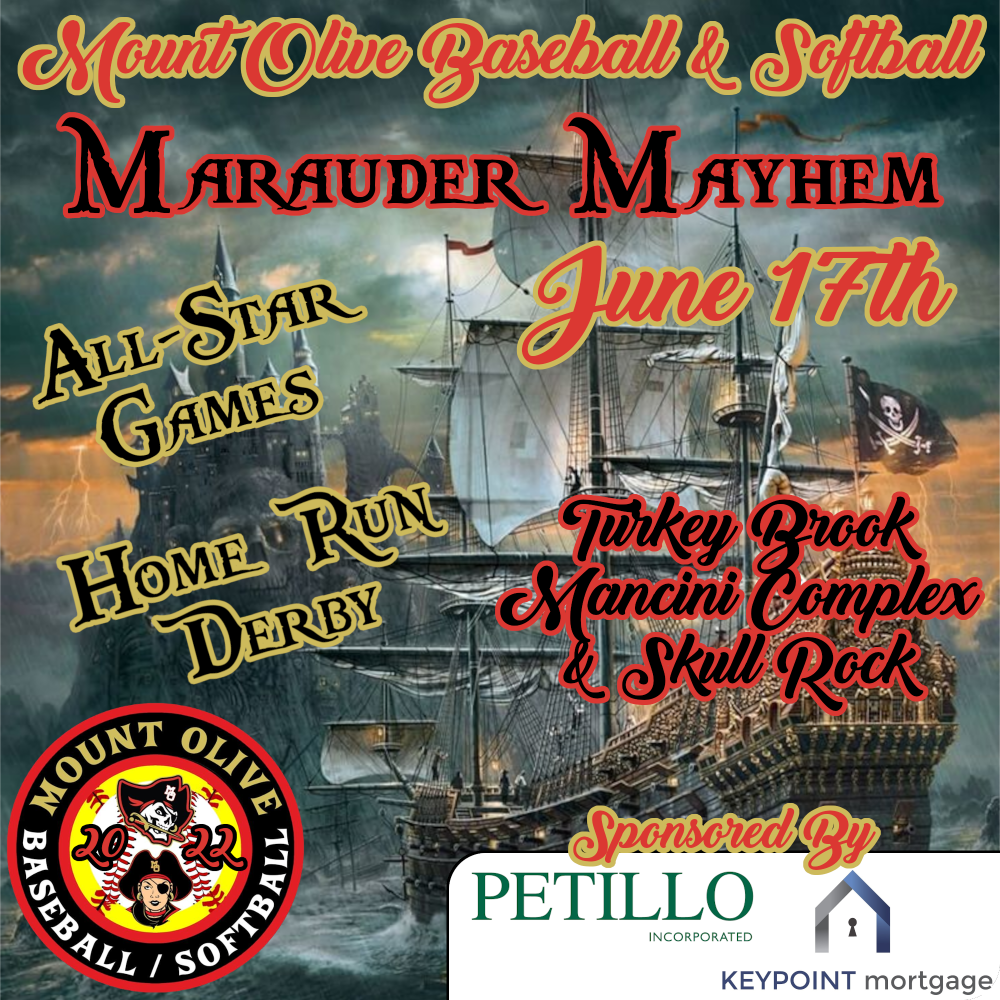
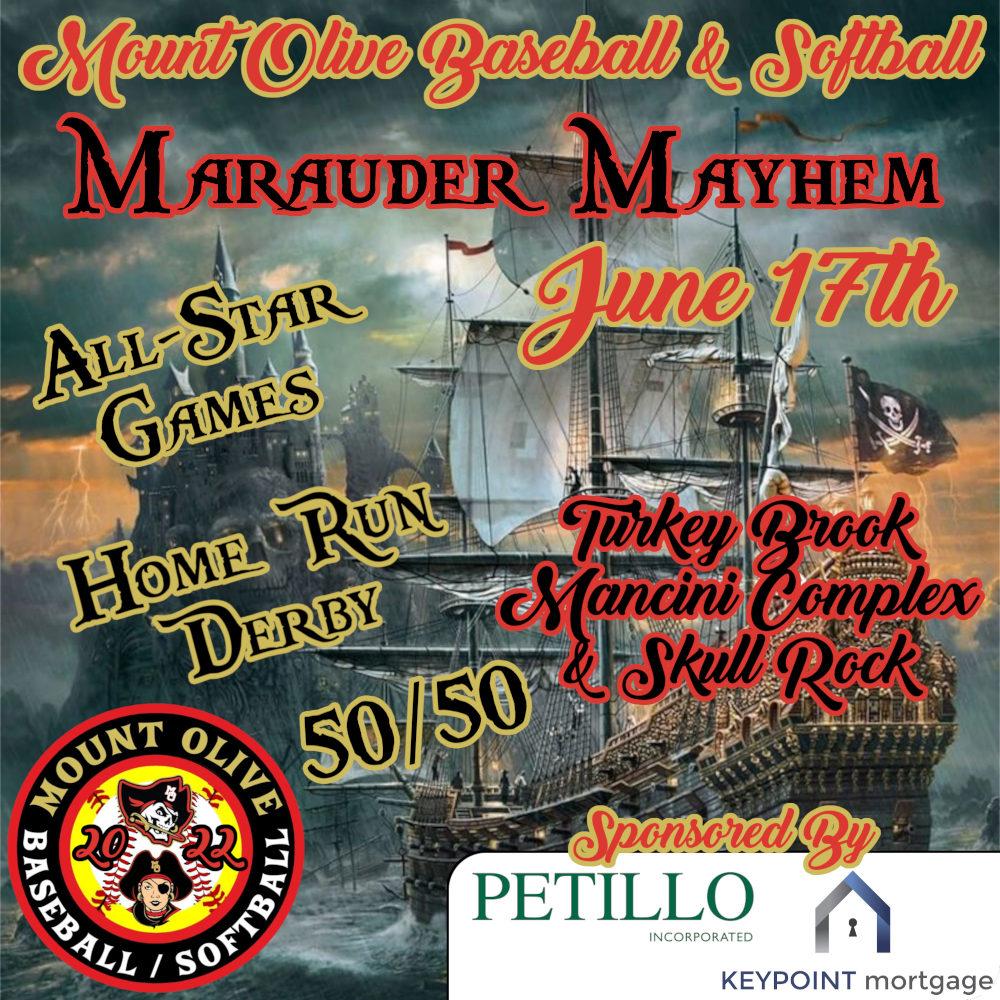
test for latest newsletter

diff --git a/newsletters/20220610/index.html b/newsletters/20220610/index.html
@@ -89,7 +89,7 @@
 									<h3>Mt Olive Night @ Somerset Patriots</h3>
 									<p><span class="marauder-red news-emphasis-large" style="font-size:xx-large">What a Night!</span>
 										<br/>Mt Olive Night @ the Somerset Patriots was a great success and lots of fun with friends & family. It was great seeing everyone there. 
-										<br/>s<span class="marauder-red news-emphasis-large">Thanks for coming out!</span></p>
+										<br/><span class="marauder-red news-emphasis-large">Thanks for coming out!</span></p>
 									<div class="mobile-only">
 										<div class="live-border-container"><a target="_blank" href="https://www.facebook.com/mtolivebsa/posts/1077615923104455"><div class="live-border"></div></a></div>
 									</div>
@@ -112,39 +112,57 @@
 								<div class="content">
 									<h3>Marauder Mayhem 2022</h3>
 									<p><span class="marauder-red news-emphasis-large">June 17th</span>
-										<br/>All-Star Games, Home Run Derby & much more!</p>
+										<br/>All-Star Games, Home Run Derby, 50/50 & much more!
+										<br/><span class="marauder-red news-emphasis-large">Sponsored by<br/>Petillo & Keypoint Mortgage</span></p>
 									<div class="mobile-only">
-										<div class="live-border-container"><a target="_blank" href="https://www.facebook.com/mtolivebsa/posts/401763938538881"><div class="live-border"></div></a></div>
+										<div class="live-border-container"><a target="_blank" href="https://www.facebook.com/mtolivebsa/posts/1185568042218801"><div class="live-border"></div></a></div>
 									</div>
 								</div>
 							</section>
 							<section class="feature left">
-								<a target="_blank" href="https://www.facebook.com/mtolivebsa" class="image flip-card">
+								<a target="_blank" href="c" class="image flip-card">
 									<div class="flip-card-inner">
 										<div class="flip-card-front">
-											<img src="./images/travel-baseball.jpg" />
+											<img src="./images/9U-Districts.jpg" />
+										</div>
+										<div class="flip-card-back">
+											<div>
+												<h2>Let's Go MO!!</h2>
+												<h2>Go Marauders!!</h2>
+												<p style="font-weight:bold;">Click for more info!</p>
+											</div>
+										</div>
+									</div>
+								</a>
+								<div class="content">
+									<h3>NJ 9U District 7 Tournament</h3>
+									<p>MOBSA is proud to be hosting the Cal Ripken Northern New Jersey 9U District 7 Tournament at the Michael Mancini Baseball Complex at Turkey Brook Park!  Pool play begins next Thursday June 16th.</p>
+									<div class="mobile-only">
+										<div class="live-border-container"><a target="_blank" href="https://www.facebook.com/mtolivebsa/posts/1078734426325938"><div class="live-border"></div></a></div>
+									</div>
+								</div>
+							</section>
+							<section class="feature left">
+								<a target="_blank" href="https://www.facebook.com/mtolivebsa/posts/1078619956337385" class="image flip-card">
+									<div class="flip-card-inner">
+										<div class="flip-card-front">
+											<img src="./images/rec-softball.jpg" />
 										</div>
 										<div class="flip-card-back">
 											<div>
 												<h1 style="font-family: 'Pieces of Eight';">Work like a Captain,<br/>Play like a Marauder!</h1> 
-												<p>Keep it up boys!</p>
+												<p>Keep it up ladies!</p>
 												<p style="font-weight:bold;">Click Here!</p>
 											</div>
 										</div>
 									</div>
 								</a>
 								<div class="content">
-									<h3>Travel Baseball</h3>
-									<ul>
-										<li><a target="_blank" href="https://www.facebook.com/mtolivebsa/posts/1072828903583157">8u Tournament Recap</a><span class="highlight-win">Runner-Up!</span></li>
-										<li><a target="_blank" href="https://www.facebook.com/mtolivebsa/posts/1072879246911456">9u Tournament Recap</a><span class="highlight-win">Great Job!</span></li>
-										<li><a target="_blank" href="https://www.facebook.com/mtolivebsa/posts/1072766070256107">10u Tournament Recap</a><span class="highlight-win">Great Job!</span></li>
-										<li><a target="_blank" href="https://www.facebook.com/mtolivebsa/posts/1072329250299789">11u Tournament Recap</a><span class="highlight-win">Great Job!</span></li>
-										<li><a target="_blank" href="https://www.facebook.com/mtolivebsa/posts/1070937200438994">12u Tournament Recap</a><span class="highlight-win">Great Job!</span></li>
-										<li><a target="_blank" href="https://www.facebook.com/mtolivebsa/posts/1072719946927386">13u Tournament Recap</a><span class="highlight-win">Champs!</span></li>
-									</ul>
+									<h3>Rec Softball</h3>
+									<p>The Softball Rookies Red Lady Marauders took to the field for their last regular season game last night.  What a great season ladies!
+										<br/><span class="marauder-red news-emphasis-large">Go Lady Marauders!</span></p>
 									<div class="mobile-only">
-										<div class="live-border-container"><a target="_blank" href="https://www.facebook.com/mtolivebsa"><div class="live-border"></div></a></div>
+										<div class="live-border-container"><a target="_blank" href="https://www.facebook.com/mtolivebsa/posts/1078619956337385"><div class="live-border"></div></a></div>
 									</div>
 								</div>
 							</section>
@@ -186,8 +204,59 @@
 								<div class="content">
 									<h3>Travel Softball</h3>
 									<ul>
-										<li><a target="_blank" href="https://www.facebook.com/mtolivebsa">8U vs Randolph Rage 6-10 </a><span class="highlight-loss">Loss</span></li>
-										<li><a target="_blank" href="https://www.facebook.com/mtolivebsa/posts/1072816383584409/">10U Playoffs </a><span class="highlight-win">Good Luck!</span></li>
+										<li><a target="_blank" href="https://www.facebook.com/mtolivebsa/posts/1074798923386155/">10U Playoffs </a><span class="highlight-win">Good Luck!</span></li>
+										<li><a target="_blank" href="https://www.facebook.com/mtolivebsa">8U South Plainfield Tournament </a><span class="highlight-loss">2 for 5</span></li>
+										<li><a target="_blank" href="https://www.facebook.com/mtolivebsa">8U vs Randolph Rage 4-7 </a><span class="highlight-loss">Loss</span></li>
+									</ul>
+									<div class="mobile-only">
+										<div class="live-border-container"><a target="_blank" href="https://www.facebook.com/mtolivebsa"><div class="live-border"></div></a></div>
+									</div>
+								</div>
+							</section>
+							<section class="feature left">
+								<a target="_blank" href="https://www.facebook.com/mtolivebsa" class="image flip-card">
+									<div class="flip-card-inner">
+										<div class="flip-card-front">
+											<img src="./images/rec-baseball.jpg" />
+										</div>
+										<div class="flip-card-back">
+											<div>
+												<h1 style="font-family: 'Pieces of Eight';">Work like a Captain,<br/>Play like a Marauder!</h1> 
+												<p>Keep it up boys!</p>
+												<p style="font-weight:bold;">Click Here!</p>
+											</div>
+										</div>
+									</div>
+								</a>
+								<div class="content">
+									<h3>Rec Baseball</h3>
+									<p>Boys Rookies @alstedefarms played 2 games over the weekend taking on @dtaauto on Saturday and @gjkroofing today.  Several boys from the teams made their pitching debuts including  Brett Rubin, Shane McBride, Andrew Walters and Zac Tyburski from @alstedefarms and Brody Nettles and Bryce Bodner from @gjkroofing. <span class="marauder-red news-emphasis-large">Great job boys!</span></p>
+									<div class="mobile-only">
+										<div class="live-border-container"><a target="_blank" href="https://www.facebook.com/mtolivebsa"><div class="live-border"></div></a></div>
+									</div>
+								</div>
+							</section>
+							<section class="feature left">
+								<a target="_blank" href="https://www.facebook.com/mtolivebsa" class="image flip-card">
+									<div class="flip-card-inner">
+										<div class="flip-card-front">
+											<img src="./images/travel-baseball.jpg" />
+										</div>
+										<div class="flip-card-back">
+											<div>
+												<h1 style="font-family: 'Pieces of Eight';">Work like a Captain,<br/>Play like a Marauder!</h1> 
+												<p>Keep it up boys!</p>
+												<p style="font-weight:bold;">Click Here!</p>
+											</div>
+										</div>
+									</div>
+								</a>
+								<div class="content">
+									<h3>Travel Baseball</h3>
+									<ul>
+										<li><a target="_blank" href="https://www.facebook.com/mtolivebsa/posts/1075528726646508">9u vs HP Hornets Gold 5-3</a><span class="highlight-win">Win!</span></li>
+										<li><a target="_blank" href="https://www.facebook.com/mtolivebsa/posts/1076123573253690">10u vs Randolph 2-0</a><span class="highlight-win">Win!</span></li>
+										<li><a target="_blank" href="https://www.facebook.com/mtolivebsa/posts/1076171046582276">11u Home Run Classic 2-2</a><span class="highlight-win">Great Job!</span></li>
 									</ul>
 									<div class="mobile-only">
 										<div class="live-border-container"><a target="_blank" href="https://www.facebook.com/mtolivebsa"><div class="live-border"></div></a></div>
